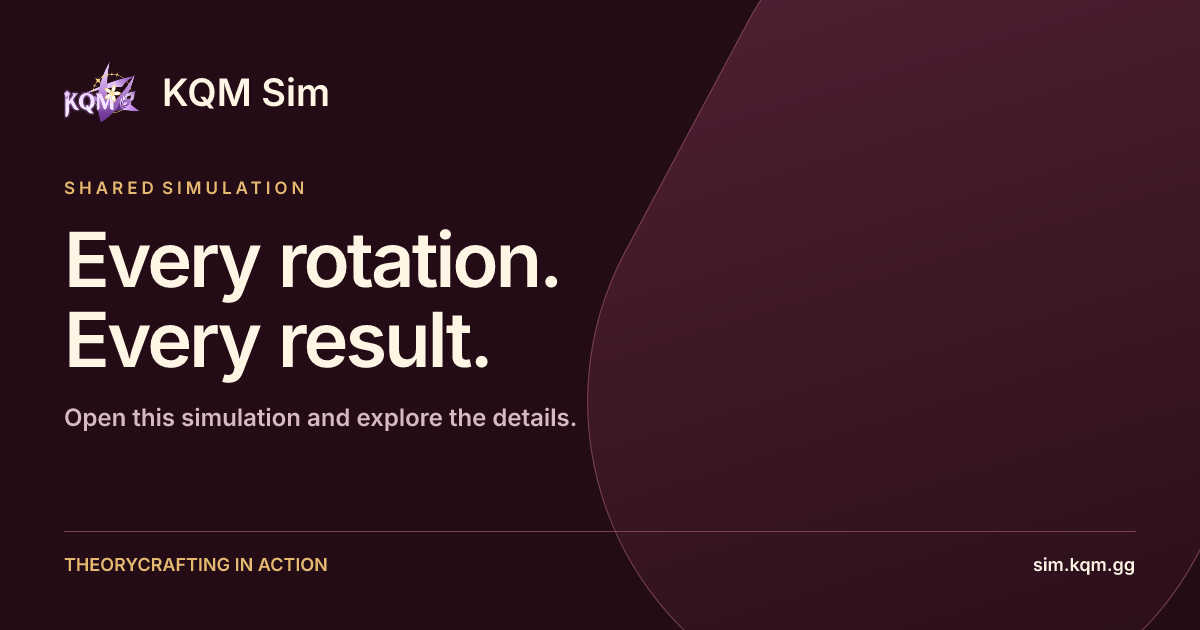
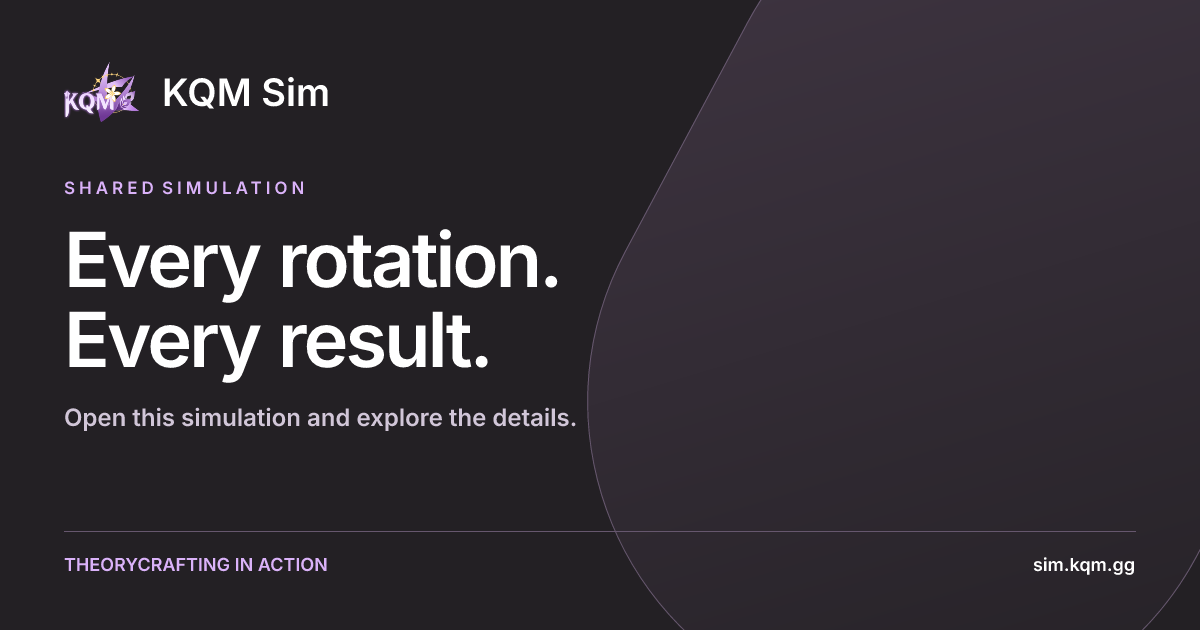
Match KQM Sim colors to the official KQM website

diff --git a/ui/packages/kqmsim/src/index.css b/ui/packages/kqmsim/src/index.css
@@ -18,9 +18,10 @@
   }
 }
 
-body {
-  /* background-color: #293742; */
-  background-color: rgb(69 10 10); 
+body.bp4-dark {
+  background-color: var(--kqm-background);
+  color: var(--kqm-text);
+  color-scheme: dark;
 }
 
 /* Chrome, Safari, Edge, Opera */
@@ -38,7 +39,7 @@ input[type="number"] {
 div.sample-header {
   position: sticky;
   top: 0; /* Don't forget this, required for the stickiness */
-  background-color: rgb(75 85 99);
+  background-color: var(--kqm-surface);
   text-align: center;
   z-index: 10;
 }
@@ -97,14 +98,14 @@ div.sticky-header {
 }
 
 .language-selector {
-  background-color: #5c7080;
+  background-color: var(--kqm-control);
   margin-left: 0.5em;
   padding: 0.3em;
 }
 
 .editor {
   counter-reset: line;
-  border: 1px solid #ced4da;
+  border: 1px solid var(--kqm-border);
 }
 
 .editor #codeArea {
@@ -119,7 +120,7 @@ div.sticky-header {
 .editor .editorLineNumber {
   position: absolute;
   left: 0px;
-  color: #cccccc;
+  color: var(--kqm-muted);
   text-align: right;
   width: 40px;
   font-weight: 100;
@@ -130,3 +131,84 @@ div.bp4-navbar-heading a:hover, div.main-page-button-container a:hover {
   color: inherit;
   text-decoration: inherit;
 }
+
+/* Palette sampled from keqingmains.com: canvas, header, controls, and links. */
+:root {
+  --kqm-background: #232024;
+  --kqm-surface: #2d282f;
+  --kqm-control: #423745;
+  --kqm-hover: #514358;
+  --kqm-border: #66576e;
+  --kqm-text: #ffffff;
+  --kqm-muted: #d1c6d8;
+  --kqm-accent: #dab2f9;
+  --kqm-accent-hover: #e8cefc;
+}
+
+::selection { background: var(--kqm-accent); color: var(--kqm-background); }
+:focus-visible { outline: 2px solid var(--kqm-accent); outline-offset: 2px; }
+* { scrollbar-color: var(--kqm-border) var(--kqm-background); }
+
+.bp4-dark a { color: var(--kqm-accent); }
+.bp4-dark a:hover { color: var(--kqm-accent-hover); }
+.bp4-dark .bp4-text-muted,
+.bp4-dark .bp4-form-helper-text { color: var(--kqm-muted); }
+
+.bp4-dark .bp4-dialog,
+.bp4-dark .bp4-dialog-header,
+.bp4-dark .bp4-card,
+.bp4-dark .bp4-menu,
+.bp4-dark .bp4-popover2-content,
+.bp4-dark .bp4-popover-content { background: var(--kqm-surface); color: var(--kqm-text); }
+.bp4-dark .bp4-heading { color: var(--kqm-text); }
+
+.bp4-dark .bp4-button:not([class*="bp4-intent-"]) {
+  background: var(--kqm-control);
+  color: var(--kqm-text);
+}
+.bp4-dark .bp4-button:not([class*="bp4-intent-"]):hover {
+  background: var(--kqm-hover);
+}
+.bp4-dark .bp4-button.bp4-intent-primary {
+  background: var(--kqm-accent);
+  color: var(--kqm-background);
+}
+.bp4-dark .bp4-button.bp4-intent-primary:hover,
+.bp4-dark .bp4-button.bp4-intent-primary:active { background: var(--kqm-accent-hover); }
+.bp4-dark .bp4-button .bp4-icon { color: inherit; }
+.bp4-dark .bp4-button:disabled,
+.bp4-dark .bp4-button.bp4-disabled { opacity: 0.5; }
+
+.bp4-dark .bp4-tab[aria-selected="true"],
+.bp4-dark .bp4-tab:not([aria-disabled="true"]):hover { color: var(--kqm-accent); }
+.bp4-dark .bp4-tab[aria-selected="true"] { box-shadow: inset 0 -3px 0 var(--kqm-accent); }
+.bp4-dark .bp4-tab-indicator { background: var(--kqm-accent); }
+.bp4-dark .bp4-tab[aria-disabled="true"] { color: var(--kqm-muted); opacity: 0.5; }
+
+.bp4-dark .bp4-input,
+.bp4-dark .bp4-html-select select {
+  background: var(--kqm-background);
+  color: var(--kqm-text);
+  caret-color: var(--kqm-accent);
+}
+.bp4-dark .bp4-input::placeholder { color: var(--kqm-muted); }
+.bp4-dark .bp4-input:focus { box-shadow: 0 0 0 1px var(--kqm-accent); }
+.bp4-dark .bp4-control input:checked ~ .bp4-control-indicator,
+.bp4-dark .bp4-control:hover input:checked ~ .bp4-control-indicator {
+  background: var(--kqm-accent);
+  color: var(--kqm-background);
+}
+.bp4-dark .bp4-menu-item.bp4-active,
+.bp4-dark .bp4-menu-item:hover { background: var(--kqm-control); color: var(--kqm-text); }
+
+/* Keep syntax and element colors; match the editor's neutral surfaces. */
+.ace-tomorrow-night { background: var(--kqm-background); color: var(--kqm-text); }
+.ace-tomorrow-night .ace_gutter { background: var(--kqm-surface); color: var(--kqm-muted); }
+.ace-tomorrow-night .ace_marker-layer .ace_active-line,
+.ace-tomorrow-night .ace_gutter-active-line { background: var(--kqm-surface); }
+.ace-tomorrow-night .ace_marker-layer .ace_selection { background: var(--kqm-hover); }
+.ace-tomorrow-night .ace_cursor { color: var(--kqm-accent); }
+.ace-tomorrow-night .ace_print-margin { background: var(--kqm-border); }
+
+/* Shared character details use this fixed neutral instead of a theme utility. */
+[class~="bg-[#252A31]"] { background-color: var(--kqm-background); }

diff --git a/ui/packages/kqmsim/src/App.tsx b/ui/packages/kqmsim/src/App.tsx
@@ -33,7 +33,7 @@ const App = ({}) => {
 
   return (
     <>
-      <header className="flex items-center gap-3 px-4 py-3 border-b border-white/20">
+      <header className="flex items-center gap-3 px-4 py-3 border-b border-[var(--kqm-border)] bg-bp-header-color">
         <a href="https://keqingmains.com" aria-label="KQM website">
           <img src="/kqm-logo.png" alt="KQM" width="48" height="48" className="object-contain" />
         </a>

diff --git a/ui/packages/kqmsim/src/Components/Simulator/Simulator.tsx b/ui/packages/kqmsim/src/Components/Simulator/Simulator.tsx
@@ -77,7 +77,7 @@ export function Simulator({
         </p>
       </div>
       <ActionList cfg={cfg} onChange={onChange} />
-      <div className="sticky bottom-0 flex flex-col gap-y-1 bg-[#450a0a]">
+      <div className="sticky bottom-0 flex flex-col gap-y-1 bg-bp-bg">
         {err !== '' && cfg !== '' ? (
           <div className="pl-2 pr-2 pt-2 mt-1">
             <Callout intent={Intent.DANGER} title="Error: Config Invalid">
